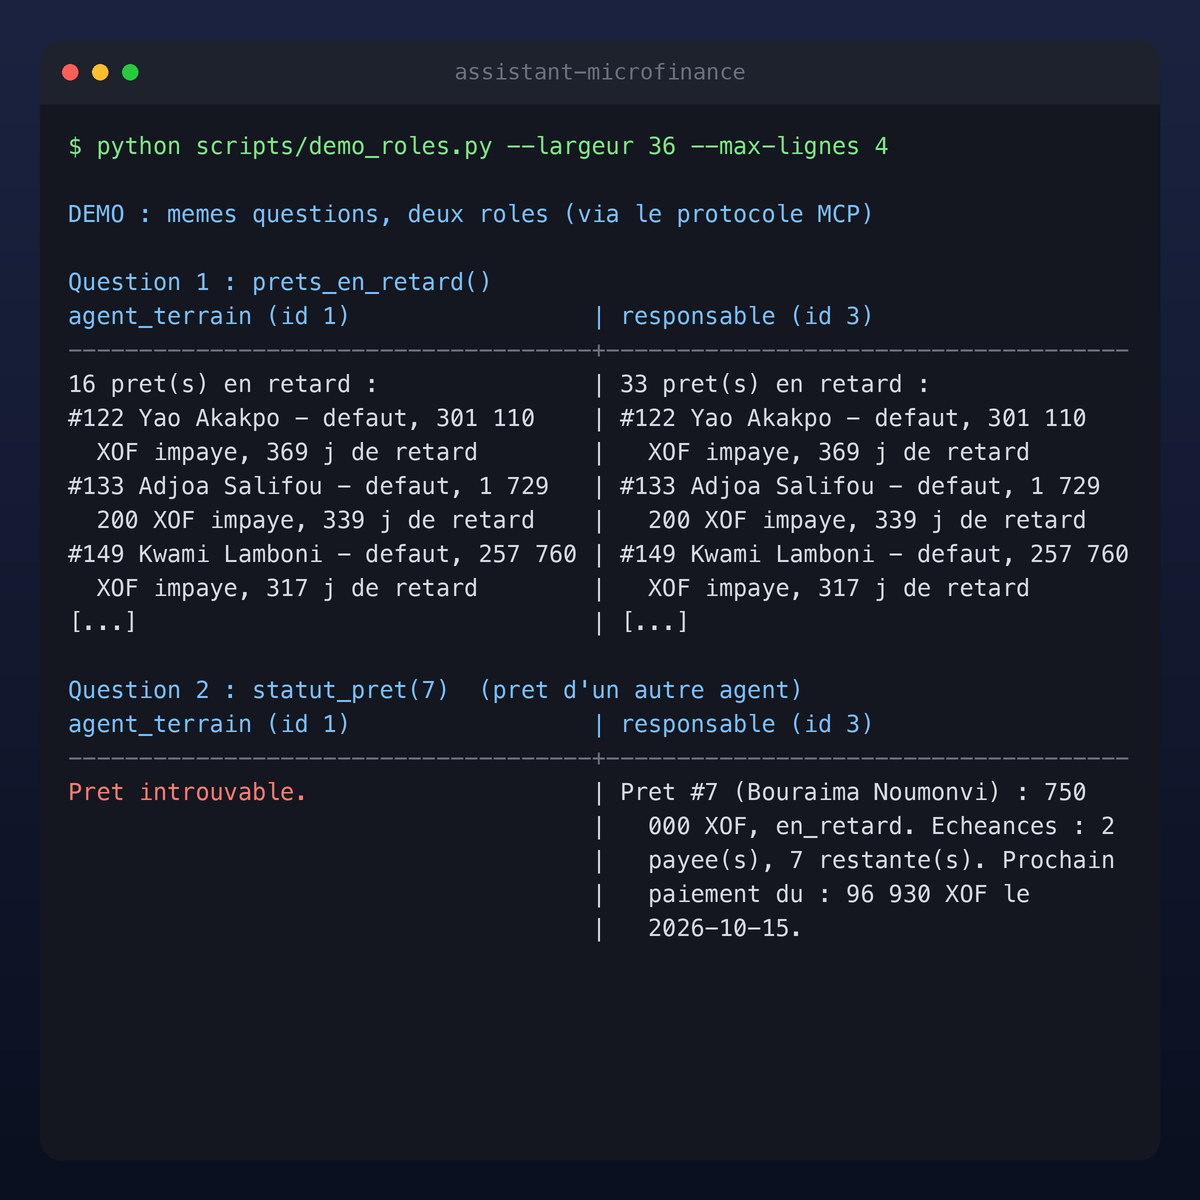
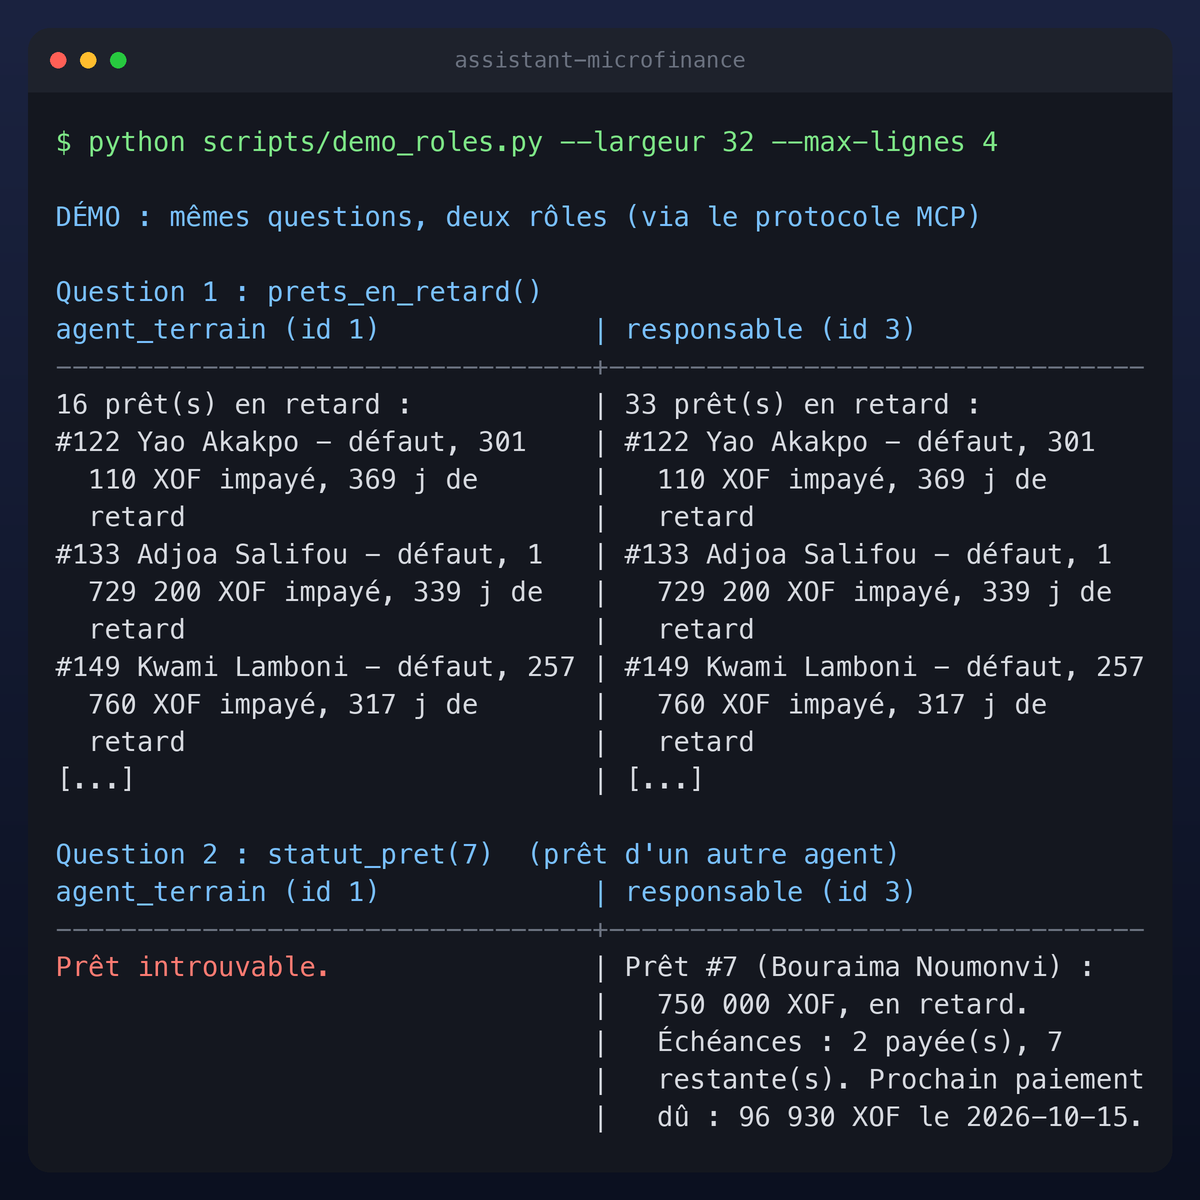
README : textes accentués, options de la démo et commande des captures ; images régénérées

diff --git a/README.md b/README.md
@@ -28,7 +28,7 @@ MCP_USER_ID=3 python mcp_server/server.py
 | Outil | agent_terrain | responsable | auditeur |
 |---|---|---|---|
 | `rechercher_client(nom)` | clients ayant un de ses prets | tout | tout |
-| `statut_pret(loan_id)` | ses prets (sinon « Pret introuvable. ») | tout | tout |
+| `statut_pret(loan_id)` | ses prets (sinon « Prêt introuvable. ») | tout | tout |
 | `prets_en_retard()` | ses prets | tout | tout |
 | `journal_audit(limite)` | refuse | refuse | oui |
 
@@ -64,46 +64,48 @@ Pour tester un autre role, changer `MCP_USER_ID` (un serveur = une identite).
 
 ## Exemple
 
-Memes questions, deux roles, via le protocole MCP (sortie reelle de `python scripts/demo_roles.py`, donnees fictives generees par `data/generate.py`, capturee le 2026-11-15) :
+Mêmes questions, deux rôles, via le protocole MCP (sortie réelle de `python scripts/demo_roles.py`, données fictives générées par `data/generate.py`, capturée le 2026-11-15) :
 
 ```text
-DEMO : memes questions, deux roles (via le protocole MCP)
+DÉMO : mêmes questions, deux rôles (via le protocole MCP)
 
 Question 1 : prets_en_retard()
 agent_terrain (id 1)                                           | responsable (id 3)
 ---------------------------------------------------------------+---------------------------------------------------------------
-16 pret(s) en retard :                                         | 33 pret(s) en retard :
-#122 Yao Akakpo - defaut, 301 110 XOF impaye, 369 j de retard  | #122 Yao Akakpo - defaut, 301 110 XOF impaye, 369 j de retard
-#133 Adjoa Salifou - defaut, 1 729 200 XOF impaye, 339 j de    | #133 Adjoa Salifou - defaut, 1 729 200 XOF impaye, 339 j de
+16 prêt(s) en retard :                                         | 33 prêt(s) en retard :
+#122 Yao Akakpo - défaut, 301 110 XOF impayé, 369 j de retard  | #122 Yao Akakpo - défaut, 301 110 XOF impayé, 369 j de retard
+#133 Adjoa Salifou - défaut, 1 729 200 XOF impayé, 339 j de    | #133 Adjoa Salifou - défaut, 1 729 200 XOF impayé, 339 j de
   retard                                                       |   retard
-#149 Kwami Lamboni - defaut, 257 760 XOF impaye, 317 j de      | #149 Kwami Lamboni - defaut, 257 760 XOF impaye, 317 j de
+#149 Kwami Lamboni - défaut, 257 760 XOF impayé, 317 j de      | #149 Kwami Lamboni - défaut, 257 760 XOF impayé, 317 j de
   retard                                                       |   retard
-#155 Ayité Kassegne - defaut, 1 182 200 XOF impaye, 315 j de   | #155 Ayité Kassegne - defaut, 1 182 200 XOF impaye, 315 j de
+#155 Ayité Kassegne - défaut, 1 182 200 XOF impayé, 315 j de   | #155 Ayité Kassegne - défaut, 1 182 200 XOF impayé, 315 j de
   retard                                                       |   retard
-#106 Safiatou Salifou - defaut, 314 860 XOF impaye, 225 j de   | #65 Delali Noumonvi - defaut, 1 194 440 XOF impaye, 264 j de
+#106 Safiatou Salifou - défaut, 314 860 XOF impayé, 225 j de   | #65 Delali Noumonvi - défaut, 1 194 440 XOF impayé, 264 j de
   retard                                                       |   retard
-#193 Ornella Agbodjan - defaut, 366 170 XOF impaye, 210 j de   | #83 Alidou Ayivi - defaut, 829 880 XOF impaye, 228 j de retard
-  retard                                                       | #106 Safiatou Salifou - defaut, 314 860 XOF impaye, 225 j de
-#165 Dzifa Quashie - defaut, 1 106 320 XOF impaye, 114 j de    |   retard
-  retard                                                       | #193 Ornella Agbodjan - defaut, 366 170 XOF impaye, 210 j de
-#32 Kokoé Salifou - defaut, 492 200 XOF impaye, 112 j de       |   retard
-  retard                                                       | #192 Fatoumata Lamboni - defaut, 2 965 000 XOF impaye, 148 j
-#2 Ornella Amegah - en_retard, 250 060 XOF impaye, 42 j de     |   de retard
-  retard                                                       | #126 Moussa Awesso - defaut, 835 450 XOF impaye, 145 j de
-#29 Yao Sossou - en_retard, 197 180 XOF impaye, 39 j de retard |   retard
+#193 Ornella Agbodjan - défaut, 366 170 XOF impayé, 210 j de   | #83 Alidou Ayivi - défaut, 829 880 XOF impayé, 228 j de retard
+  retard                                                       | #106 Safiatou Salifou - défaut, 314 860 XOF impayé, 225 j de
+#165 Dzifa Quashie - défaut, 1 106 320 XOF impayé, 114 j de    |   retard
+  retard                                                       | #193 Ornella Agbodjan - défaut, 366 170 XOF impayé, 210 j de
+#32 Kokoé Salifou - défaut, 492 200 XOF impayé, 112 j de       |   retard
+  retard                                                       | #192 Fatoumata Lamboni - défaut, 2 965 000 XOF impayé, 148 j
+#2 Ornella Amegah - en retard, 250 060 XOF impayé, 42 j de     |   de retard
+  retard                                                       | #126 Moussa Awesso - défaut, 835 450 XOF impayé, 145 j de
+#29 Yao Sossou - en retard, 197 180 XOF impayé, 39 j de retard |   retard
 ... et 6 autre(s).                                             | ... et 23 autre(s).
 
-Question 2 : statut_pret(7)  (pret d'un autre agent)
+Question 2 : statut_pret(7)  (prêt d'un autre agent)
 agent_terrain (id 1)                                           | responsable (id 3)
 ---------------------------------------------------------------+---------------------------------------------------------------
-Pret introuvable.                                              | Pret #7 (Bouraima Noumonvi) : 750 000 XOF, en_retard.
-                                                               |   Echeances : 2 payee(s), 7 restante(s). Prochain paiement du
+Prêt introuvable.                                              | Prêt #7 (Bouraima Noumonvi) : 750 000 XOF, en retard.
+                                                               |   Échéances : 2 payée(s), 7 restante(s). Prochain paiement dû
                                                                |   : 96 930 XOF le 2026-10-15.
 ```
 
-L'agent terrain ne voit que son portefeuille et recoit « Pret introuvable. » pour le pret d'un autre agent ; le responsable voit tout. Le script ecrit dans `audit_log` de la base de dev.
+L'agent terrain ne voit que son portefeuille et reçoit « Prêt introuvable. » pour le prêt d'un autre agent ; le responsable voit tout. Le script écrit dans `audit_log` de la base de dev.
 
-![Memes questions, deux roles : 16 prets en retard pour l'agent terrain contre 33 pour le responsable, et « Pret introuvable. » contre le detail du pret](docs/images/demo-roles.png)
+Le script accepte deux options d'affichage : `--largeur N` fixe la largeur de chaque colonne, et `--max-lignes N` abrège chaque réponse à N lignes avec « [...] » (les réponses viennent toujours du serveur). Les captures ci-dessous ont été faites avec `python scripts/demo_roles.py --largeur 32 --max-lignes 4` ; `python scripts/make_screenshots.py` les régénère à partir des vraies sorties.
+
+![Mêmes questions, deux rôles : 16 prêts en retard pour l'agent terrain contre 33 pour le responsable, et « Prêt introuvable. » contre le détail du prêt](docs/images/demo-roles.png)
 
 Le journal d'audit garde la trace de chaque appel, refus compris :
 
